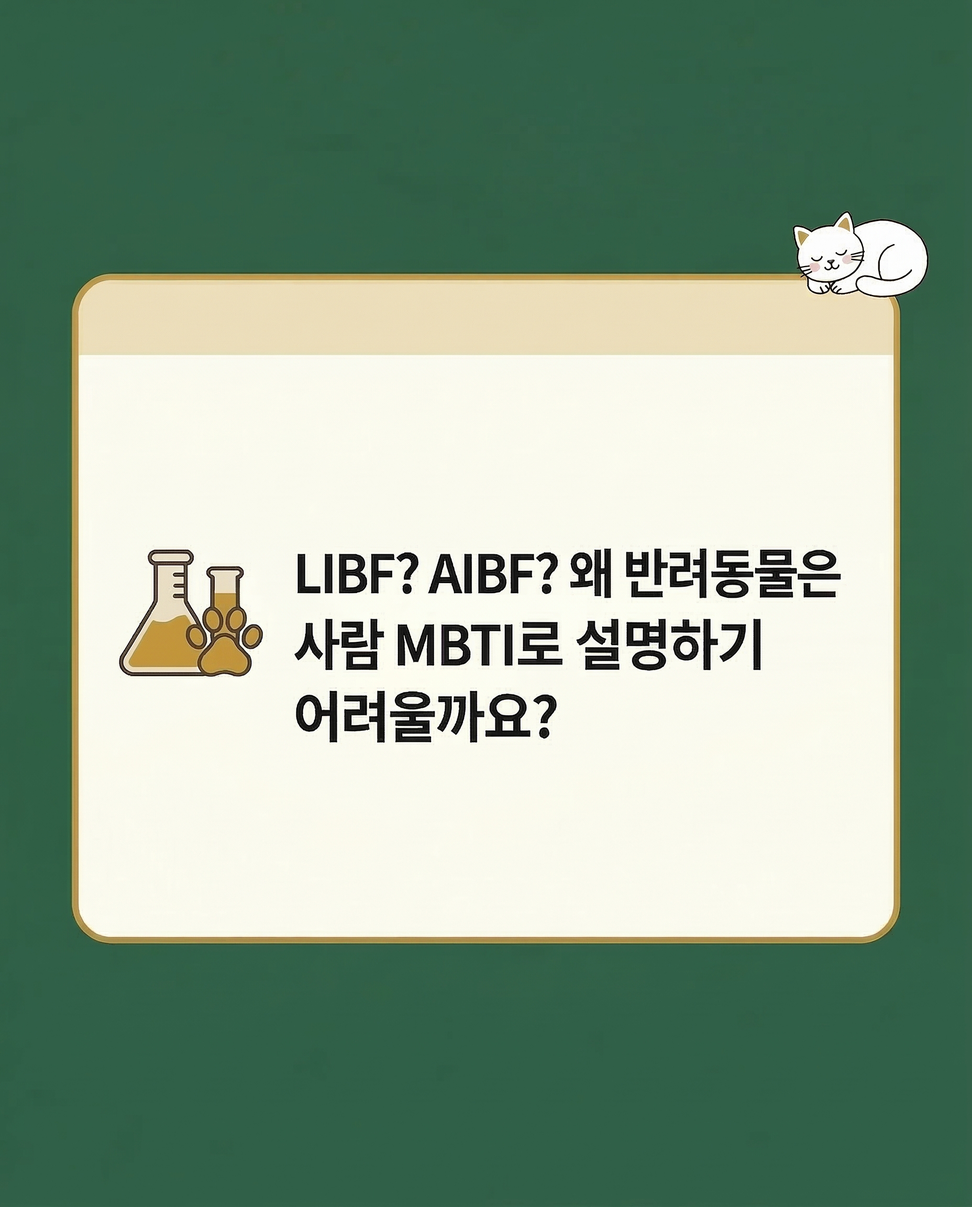
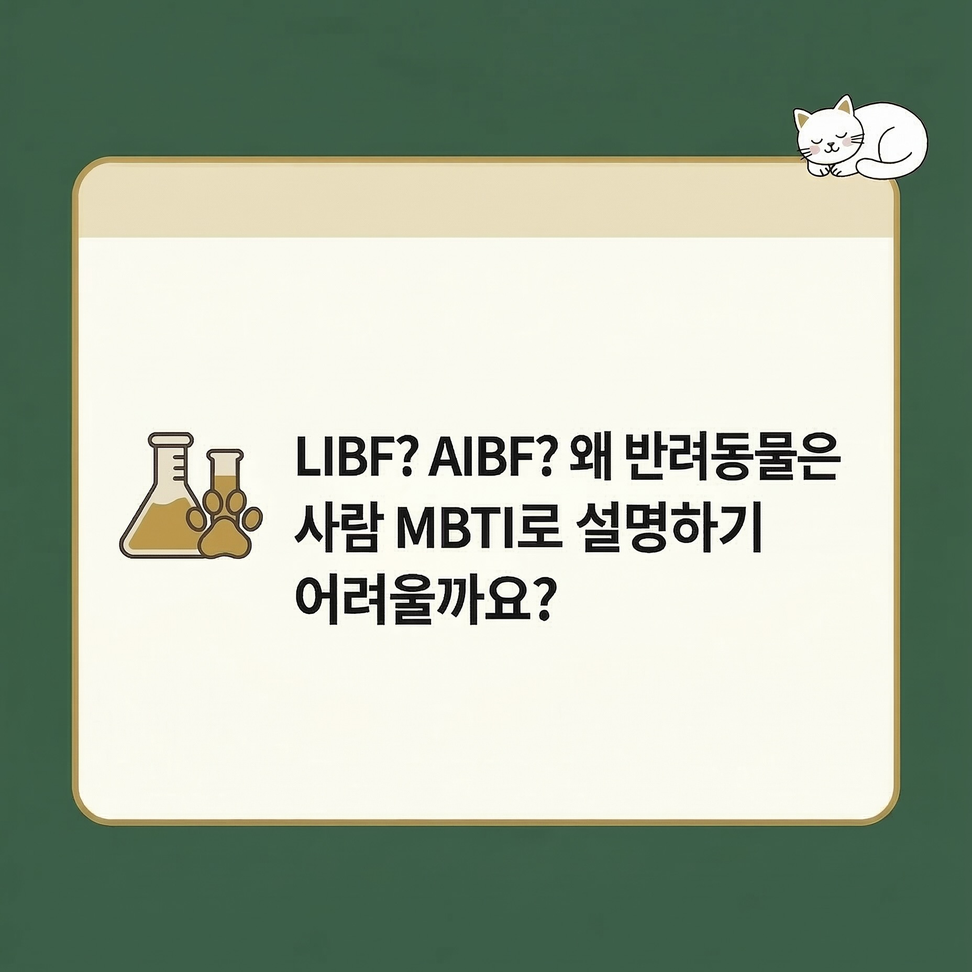
feat: 메인 페이지 Hero 캐러셀 aspect-square 적용, Footer/페이지 수정
Made-with: Cursor

Changed region(s): [[0.0625, 0.0938, 0.9688, 0.3125], [0.125, 0.4375, 0.875, 0.6562], [0.0625, 0.75, 0.9375, 0.875]]

diff --git a/src/components/main/Hero.tsx b/src/components/main/Hero.tsx
@@ -42,12 +42,12 @@ function HeroImageCarousel() {
   }, [api]);
 
   return (
-    <div className="relative w-full h-[500px] md:h-[600px] overflow-hidden">
+    <div className="relative w-full aspect-square overflow-hidden">
       <Carousel opts={{ loop: true }} setApi={setApi} className="w-full h-full">
         <CarouselContent className="h-full -ml-0">
           {[1, 2, 3, 4, 5].map((n) => (
             <CarouselItem key={n} className="pl-0 basis-full h-full">
-              <div className="relative w-full h-[500px] md:h-[600px] bg-gray-50">
+              <div className="relative w-full aspect-square bg-gray-50">
                 <Image
                   src={`/images/code_explain/${n}.jpeg`}
                   alt={`코드 설명 ${n}`}
@@ -89,23 +89,24 @@ function ResultBrowseContent() {
   return (
     <Tabs defaultValue="dog" className="w-full">
       <TabsList className="grid w-full grid-cols-2 mb-4">
-        <TabsTrigger value="dog">🐕 강아지</TabsTrigger>
-        <TabsTrigger value="cat">🐱 고양이</TabsTrigger>
+        <TabsTrigger value="dog">강아지</TabsTrigger>
+        <TabsTrigger value="cat">고양이</TabsTrigger>
       </TabsList>
       <TabsContent value="dog" className="mt-0">
         <div className="grid grid-cols-2 md:grid-cols-4 gap-3 max-h-[60vh] overflow-y-auto pr-1">
           {RESULT_CODES.map((code) => {
             const r = DOG_RESULTS[code];
             return (
-              <Link
+              // <Link key={code} href={`/test_mbti/dog/result?code=${code.toLowerCase()}`} className="block p-3 rounded-lg border border-gray-200 hover:border-purple-400 hover:bg-purple-50/50 transition-colors text-left">
+              <div
                 key={code}
-                href={`/test_mbti/dog/result?code=${code.toLowerCase()}`}
-                className="block p-3 rounded-lg border border-gray-200 hover:border-purple-400 hover:bg-purple-50/50 transition-colors text-left"
+                className="block p-3 rounded-lg border border-gray-200 text-left cursor-default"
               >
                 <span className="text-xs font-mono font-semibold text-purple-600">{code}</span>
                 <p className="text-sm font-bold text-gray-900 mt-0.5 line-clamp-2">{r.title}</p>
                 <p className="text-xs text-gray-500 mt-0.5 line-clamp-2">{r.description}</p>
-              </Link>
+              </div>
+              // </Link>
             );
           })}
         </div>
@@ -115,15 +116,16 @@ function ResultBrowseContent() {
           {RESULT_CODES.map((code) => {
             const r = CAT_RESULTS[code as CatResultCode];
             return (
-              <Link
+              // <Link key={code} href={`/test_mbti/cat/result?code=${code.toLowerCase()}`} className="block p-3 rounded-lg border border-gray-200 hover:border-emerald-400 hover:bg-emerald-50/50 transition-colors text-left">
+              <div
                 key={code}
-                href={`/test_mbti/cat/result?code=${code.toLowerCase()}`}
-                className="block p-3 rounded-lg border border-gray-200 hover:border-emerald-400 hover:bg-emerald-50/50 transition-colors text-left"
+                className="block p-3 rounded-lg border border-gray-200 text-left cursor-default"
               >
                 <span className="text-xs font-mono font-semibold text-emerald-600">{code}</span>
                 <p className="text-sm font-bold text-gray-900 mt-0.5 line-clamp-2">{r.title}</p>
                 <p className="text-xs text-gray-500 mt-0.5 line-clamp-2">{r.description}</p>
-              </Link>
+              </div>
+              // </Link>
             );
           })}
         </div>

diff --git a/src/components/main/Footer.tsx b/src/components/main/Footer.tsx
@@ -7,7 +7,7 @@ export function Footer() {
           <div className="md:col-span-2">
             <div className="flex items-center gap-2 mb-4">
               <span className="text-3xl">🐾</span>
-              <h3 className="text-2xl font-bold">PetBTI (냉댱연구소)</h3>
+              <h3 className="text-2xl font-bold">PetBTI</h3>
             </div>
             <p className="text-gray-400 mb-4">
               반려동물과 더 행복한 동행을 연구합니다.

diff --git a/src/app/page.tsx b/src/app/page.tsx
@@ -22,7 +22,7 @@ export default function Home() {
       <h1 className="sr-only">Pet BTI - 반려동물 MBTI 검사, 강아지·고양이 성향 테스트</h1>
       <Hero />
       <Features />
-      <PetTypes />
+      {/* <PetTypes /> */}
       {/* <CTA /> */}
       <Footer />
     </div>
